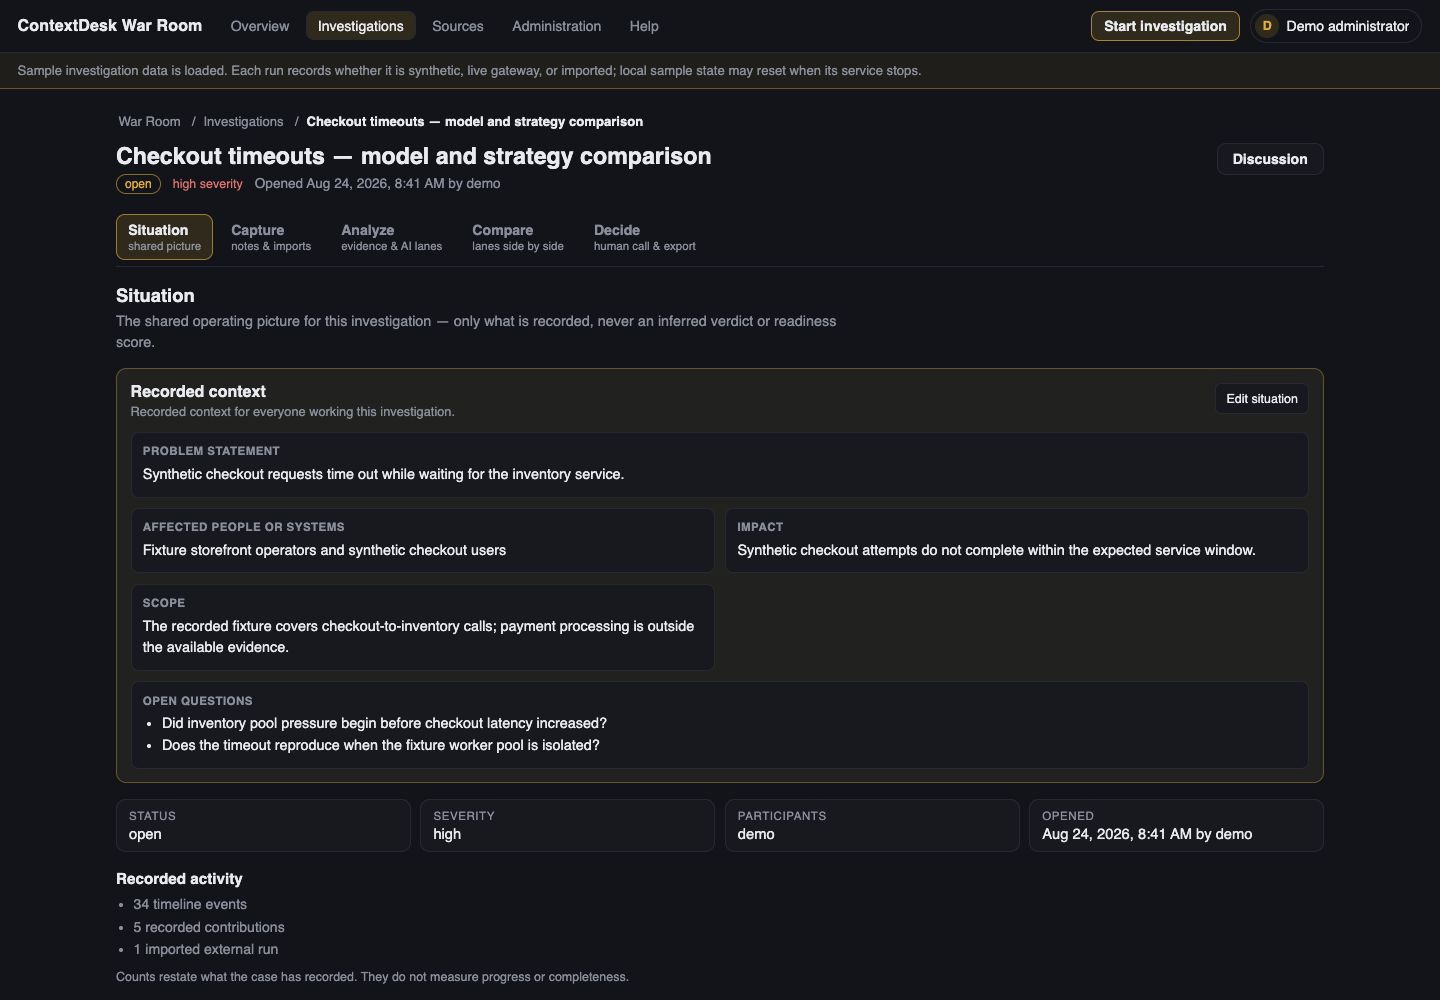
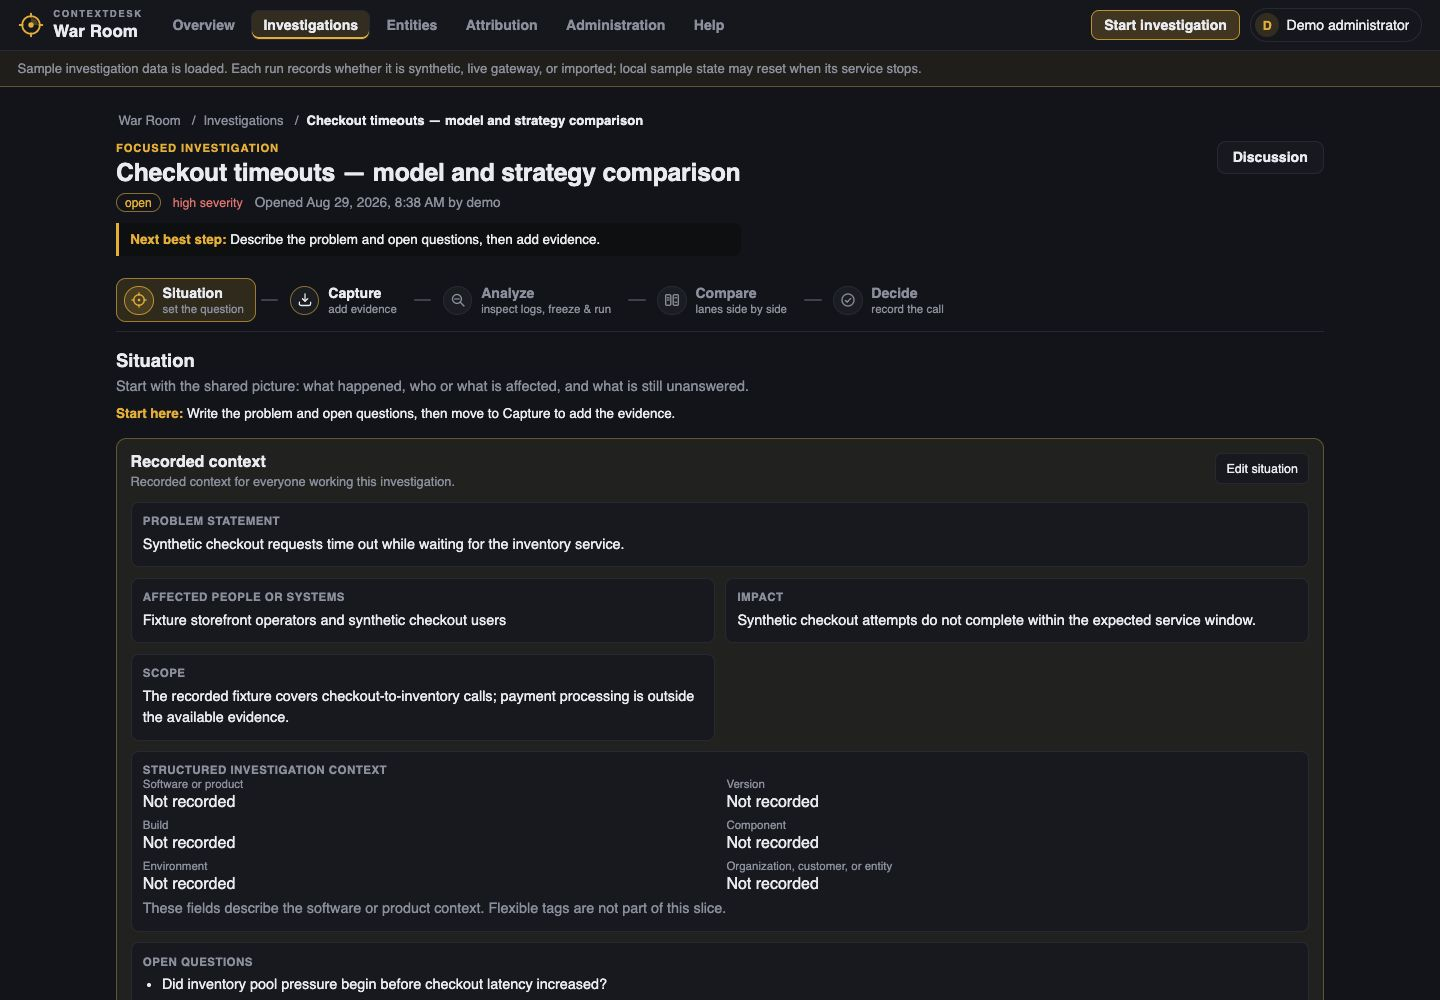
Refresh War Room Help media and provenance

diff --git a/docs/media/README.md b/docs/media/README.md
@@ -45,25 +45,24 @@ recorded in `docs/media/public-assets.json`.
 
 The War Room frames are captured from the loopback synthetic web demo, not
 from a live provider or a customer installation. They all use the same exact
-post-release source SHA and the deterministic, memory-backed checkout-timeout
-fixture. The browser viewport is 1280 × 720; no provider/model inventory,
+source SHA and the deterministic, memory-backed checkout-timeout fixture. The
+browser viewport is 1440 × 1000; no provider/model inventory,
 credential, private path, or non-synthetic corpus is visible.
 
 | File | Surface | Dimensions | Source SHA | Fixture |
 | --- | --- | --- | --- | --- |
-| `gallery/war-room-overview.png` | Overview activity feed and active investigation | 1280 × 720 PNG | `ea3f2cd58e26b21c6719d8ee543d7ba77cce59bd` | Synthetic checkout-timeout War Room demo |
-| `gallery/war-room-capture-analyze.png` | Capture provenance, imported-output boundary, and corpus intake | 1280 × 720 PNG | `ea3f2cd58e26b21c6719d8ee543d7ba77cce59bd` | Synthetic checkout-timeout War Room demo |
-| `gallery/war-room-analyze.png` | Evidence board, snapshot lineage, and model lanes | 1280 × 720 PNG | `ea3f2cd58e26b21c6719d8ee543d7ba77cce59bd` | Synthetic checkout-timeout War Room demo |
-| `gallery/war-room-compare-decide.png` | Comparison lab, historical artifacts, deep links, and lane focus | 1280 × 720 PNG | `ea3f2cd58e26b21c6719d8ee543d7ba77cce59bd` | Synthetic checkout-timeout War Room demo |
-| `gallery/war-room-decide-export.png` | Accepted human decision journal | 1280 × 720 PNG | `ea3f2cd58e26b21c6719d8ee543d7ba77cce59bd` | Synthetic checkout-timeout War Room demo |
-| `gallery/war-room-export.png` | Accepted decision and share-safe export boundary | 1280 × 720 PNG | `ea3f2cd58e26b21c6719d8ee543d7ba77cce59bd` | Synthetic checkout-timeout War Room demo |
+| `gallery/war-room-overview.png` | Overview activity feed and active investigation | 1440 × 1000 PNG | `5508e9e63b540d1ba5080fc7d70eecd74f08e332` | Synthetic checkout-timeout War Room demo |
+| `gallery/war-room-capture-analyze.png` | Capture provenance, imported-output boundary, and corpus intake | 1440 × 1000 PNG | `5508e9e63b540d1ba5080fc7d70eecd74f08e332` | Synthetic checkout-timeout War Room demo |
+| `gallery/war-room-analyze.png` | Workstreams and investigation-owned Log workbench | 1440 × 1000 PNG | `5508e9e63b540d1ba5080fc7d70eecd74f08e332` | Synthetic checkout-timeout War Room demo |
+| `gallery/war-room-compare-decide.png` | Comparison lab, evidence, deep links, and lane focus | 1440 × 1000 PNG | `5508e9e63b540d1ba5080fc7d70eecd74f08e332` | Synthetic checkout-timeout War Room demo |
+| `gallery/war-room-decide-export.png` | Portable archive export, dry-run, and exact-restore boundary | 1440 × 1000 PNG | `5508e9e63b540d1ba5080fc7d70eecd74f08e332` | Synthetic checkout-timeout War Room demo |
+| `gallery/war-room-export.png` | Portable archive export, dry-run, and exact-restore boundary | 1440 × 1000 PNG | `5508e9e63b540d1ba5080fc7d70eecd74f08e332` | Synthetic checkout-timeout War Room demo |
 
-**Known residual — this is not a single-build gallery.** #734 asks for one
-exact packaged-app SHA and #677 asks for frames current with the promoted
-build. Two frames predate the third, and `gallery/logs-library-demo.png` was
-captured before the Logs toolbar was regrouped, so it no longer matches
-production. Closing that requires native recapture from one freshly built
-`.app`; it cannot be discharged by editing this file.
+**Known residual — this is not a single-build gallery.** The War Room set is a
+current, single-SHA browser capture, while the three native desktop frames
+still span earlier packaged-app builds. `gallery/logs-library-demo.png` predates
+the Logs toolbar regrouping. Closing that native residual requires recapture
+from one freshly built `.app`; it cannot be discharged by editing this file.
 
 ## Publication privacy gate
 
